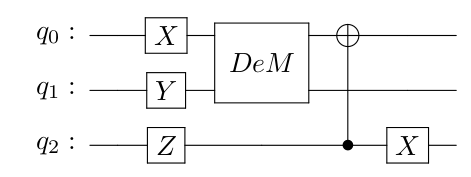
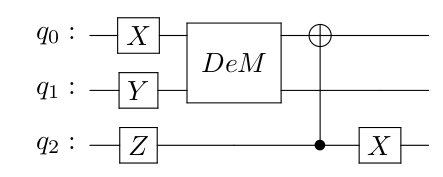
deploy: ea15b0998eacfc84c8b379323e394844159b586c

diff --git a/searchindex.js b/searchindex.js
@@ -1,1 +1,1 @@
-Search.setIndex({docnames:["index","modules","options","qulacsvis","qulacsvis.utils","qulacsvis.utils.gate","qulacsvis.utils.latex","qulacsvis.visualization","qulacsvis.visualization.circuit_drawer","qulacsvis.visualization.circuit_parser","qulacsvis.visualization.latex","qulacsvis.visualization.matplotlib","qulacsvis.visualization.text"],envversion:{"sphinx.domains.c":2,"sphinx.domains.changeset":1,"sphinx.domains.citation":1,"sphinx.domains.cpp":5,"sphinx.domains.index":1,"sphinx.domains.javascript":2,"sphinx.domains.math":2,"sphinx.domains.python":3,"sphinx.domains.rst":2,"sphinx.domains.std":2,"sphinx.ext.intersphinx":1,"sphinx.ext.viewcode":1,sphinx:56},filenames:["index.rst","modules.rst","options.rst","qulacsvis.rst","qulacsvis.utils.rst","qulacsvis.utils.gate.rst","qulacsvis.utils.latex.rst","qulacsvis.visualization.rst","qulacsvis.visualization.circuit_drawer.rst","qulacsvis.visualization.circuit_parser.rst","qulacsvis.visualization.latex.rst","qulacsvis.visualization.matplotlib.rst","qulacsvis.visualization.text.rst"],objects:{"":[[3,0,0,"-","qulacsvis"]],"qulacsvis.utils":[[5,0,0,"-","gate"],[6,0,0,"-","latex"]],"qulacsvis.utils.gate":[[5,1,1,"","grouping_adjacent_gates"],[5,1,1,"","to_latex_style"],[5,1,1,"","to_text_style"]],"qulacsvis.visualization":[[8,0,0,"-","circuit_drawer"],[9,0,0,"-","circuit_parser"],[10,0,0,"-","latex"],[11,0,0,"-","matplotlib"],[12,0,0,"-","text"]],"qulacsvis.visualization.circuit_drawer":[[8,1,1,"","circuit_drawer"]],"qulacsvis.visualization.circuit_parser":[[9,2,1,"","CircuitParser"],[9,2,1,"","GateData"]],"qulacsvis.visualization.circuit_parser.CircuitParser":[[9,3,1,"","append_layer"],[9,4,1,"","gate_info"],[9,4,1,"","layer_width"],[9,4,1,"","qubit_count"]],"qulacsvis.visualization.circuit_parser.GateData":[[9,4,1,"","control_bits"],[9,3,1,"","from_dict"],[9,3,1,"","from_json"],[9,4,1,"","name"],[9,3,1,"","schema"],[9,4,1,"","target_bits"],[9,3,1,"","to_dict"],[9,3,1,"","to_json"]],"qulacsvis.visualization.latex":[[10,2,1,"","LatexSourceGenerator"]],"qulacsvis.visualization.latex.LatexSourceGenerator":[[10,4,1,"","_circuit"],[10,4,1,"","_circuit_data"],[10,4,1,"","_head"],[10,4,1,"","_parser"],[10,4,1,"","_quantum_circuit"],[10,4,1,"","_tail"],[10,3,1,"","generate"]],"qulacsvis.visualization.matplotlib":[[11,2,1,"","MPLCircuitlDrawer"]],"qulacsvis.visualization.matplotlib.MPLCircuitlDrawer":[[11,4,1,"","_ax"],[11,4,1,"","_circuit"],[11,4,1,"","_circuit_data"],[11,4,1,"","_fig_scale_factor"],[11,4,1,"","_figure"],[11,4,1,"","_parser"],[11,3,1,"","draw"]],"qulacsvis.visualization.text":[[12,2,1,"","TextCircuitDrawer"],[12,1,1,"","draw_circuit"]],"qulacsvis.visualization.text.TextCircuitDrawer":[[12,3,1,"","draw"]],qulacsvis:[[4,0,0,"-","utils"],[7,0,0,"-","visualization"]]},objnames:{"0":["py","module","Python module"],"1":["py","function","Python function"],"2":["py","class","Python class"],"3":["py","method","Python method"],"4":["py","attribute","Python attribute"]},objtypes:{"0":"py:module","1":"py:function","2":"py:class","3":"py:method","4":"py:attribute"},terms:{"0":[0,2,8,10,11],"000":2,"001":2,"002":2,"003":2,"004":2,"005":2,"0em":0,"1":[0,5,8,10,11],"150":[2,8],"2":[0,5,8,10,11],"2em":0,"2px":0,"3":[0,5,8,10,11],"5":5,"6":[2,8,11],"7":5,"72":[2,8,11],"8":5,"\u3092\u63cf\u753b\u3059\u308b\u305f\u3081\u306e\u30af\u30e9\u30b9":12,"\u51fa\u529b\u3057\u305f\u3044\u91cf\u5b50\u56de\u8def":12,"\u5236\u5fa1qubit\u3092\u8868\u3059\u30c9\u30c3\u30c8\u306e\u30b9\u30bf\u30a4\u30eb":12,"\u5b9f\u969b\u306b\u56de\u8def\u3092\u63cf\u304d\u59cb\u3081\u51fa\u529b\u307e\u3067\u3059\u308b\u30e1\u30bd\u30c3\u30c9":12,"\u8a73\u7d30\u51fa\u529b":12,"\u91cf\u5b50\u56de\u8def\u56f3\u3092\u30c6\u30ad\u30b9\u30c8\u3067\u51fa\u529b\u3059\u308b\u305f\u3081\u306e\u95a2\u6570":12,"byte":9,"case":2,"class":[9,10,11,12],"default":[0,2,8,9,11,12],"float":[8,9,11],"function":0,"import":[0,8,10,11],"int":[5,8,9,11],"qulacs\u306e\u91cf\u5b50\u56de\u8def":12,"return":[5,8,10,11],"true":[2,8,9,11],"true\u306e\u3068\u304d\u306fgate\u306bcircuit\u306b\u8ffd\u52a0\u3055\u308c\u305f\u9806\u756a\u304c\u51fa\u529b\u3055\u308c\u308b":12,A:[9,10,11],But:2,For:0,If:[0,5,8,11],In:[0,2],Not:0,Or:0,The:[0,5,8,10,11],To:0,_:0,___:[0,2,8],_ax:11,_circuit:[10,11],_circuit_data:[10,11],_fig_scale_factor:11,_figur:11,_head:10,_parser:[10,11],_quantum_circuit:10,_tail:10,ad:8,add_cnot_g:[0,8],add_dense_matrix_g:[0,8],add_x_gat:[0,8,10,11],add_y_g:[0,8,10,11],add_z_gat:[0,8,10,11],adjac:5,adjust:2,after:[10,11],allow_nan:9,also:0,an:8,anoth:0,api:9,append:9,append_lay:9,ar:[2,8,10],argument:0,art:0,ascii:0,avail:[0,2],ax:11,base:[9,10,11,12],begin:0,behavior:0,bit:5,bool:[8,9,11,12],border:0,braket:0,build:0,bytearrai:9,c:0,callabl:9,can:0,charact:2,check_circular:9,circuit:[0,2,8,9,10,11,12],circuit_draw:[0,2,3,7],circuit_pars:[3,7],circuitdata:[9,10,11],circuitpars:[9,10,11],classmethod:9,code:0,commandprompt:2,contain:10,content:1,context:9,control:8,control_bit:9,convert:10,correspond:10,corrupt:2,ctrl:0,cx:[0,2,8],data:[9,10,11],dataclasses_json:9,debug:11,default_valu:9,dem:[0,2,8],describ:0,diagram:8,dict:9,displai:2,documentclass:0,dot:[8,12],dpi:[2,8,11],draw:[8,11,12],draw_circuit:12,drawer:[8,11],drawn:[8,10,11],dump_onli:9,each:[9,10],element:10,encode_json:9,end:0,ensure_ascii:9,environ:0,exampl:[5,8,10,11],exclud:9,explain:2,factor:11,factori:9,fals:[2,8,9,11,12],figur:[8,11],found:5,from:[0,5,8,10,11],from_dict:9,from_json:9,gate:[0,4,8,9],gate_info:9,gate_nam:5,gatedata:[9,10],gener:[2,10],get:5,ghost:0,graphicx:0,group:5,grouping_adjacent_g:5,have:0,head:10,how:0,imag:8,inch:8,indent:9,infer_miss:9,inform:0,input:10,instead:2,its:10,keyerror:5,kv:9,kw:9,larg:[2,8,12],latex:[3,4,5,7,8],latex_sourc:[0,8,10],latexsourcegener:10,layer:9,layer_info:9,layer_width:9,layout:2,librari:0,list:[5,9],live:0,load_onli:9,local:0,lstick:0,mani:9,matplotlib:[3,7,8],matrix:10,mean:[2,8],method:[0,8],miktex:0,mm:9,mode:0,modul:1,more:0,most:2,mpl:[0,2,8],mplcircuitldraw:11,multig:0,name:[5,9],ndarrai:10,need:0,nghost:0,none:[8,9,12],number:[8,9],numpi:10,object:[8,9,10,11,12],one:10,onli:[0,9,10],option:[0,8,9,11],order:8,other:0,output:[0,8],output_method:[0,2,8],packag:[0,1],paramet:[5,8,9,10,11,12],pars:[9,10,11],parse_const:9,parse_float:9,parse_int:9,parser:[10,11],partial:9,pdflatex:0,per:8,pil:8,pip:0,pixel:8,pleas:2,plt:11,posit:10,ppi:[2,8],preambl:10,print:[0,5,10],pypi:0,pyplot:11,python:0,q:0,qcircuit:[0,10],qm:0,quantum:[0,8,9,10,11],quantumcircuit:[0,8,9,10,11,12],qubit:[2,8,9],qubit_count:9,qulac:[0,8,9,10,11,12],qw:0,r:0,rais:[5,8],resolut:11,run:0,s:9,scale:[2,8,11],scalebox:0,schema:9,schemaf:9,section:2,see:0,self:11,separ:9,set:[0,2,8],sharper:2,show:11,skipkei:9,small:2,sometim:2,sort_kei:9,sourc:[5,8,9,10,11,12],specifi:0,standalon:0,stdout:8,str:[5,8,9,10,12],string:[5,8,10],style:8,submodul:[1,3],subpackag:1,support:0,tail:10,targ:0,target:5,target_bit:[5,9],tex:0,text:[3,7,8],textcircuitdraw:12,thei:8,thi:[0,2],to_dict:9,to_json:9,to_latex_styl:5,to_text_styl:5,tupl:9,type:[5,8,9,10,11],union:[8,9],unknown:9,us:[0,11],usepackag:0,valu:[0,9,10],valueerror:8,verbos:[2,8,12],visual:[0,1,3],want:[0,2],where:0,which:8,width:9,x:[0,2,8],y:[0,2,8],you:[0,2],z:[0,2,8]},titles:["Welcome to qulacsvis\u2019s documentation!","qulacsvis","How to use options","qulacsvis package","qulacsvis.utils package","qulacsvis.utils.gate module","qulacsvis.utils.latex module","qulacsvis.visualization package","qulacsvis.visualization.circuit_drawer module","qulacsvis.visualization.circuit_parser module","qulacsvis.visualization.latex module","qulacsvis.visualization.matplotlib module","qulacsvis.visualization.text module"],titleterms:{base:[0,2],chang:2,circuit_draw:8,circuit_pars:9,content:[3,4,7],control:2,document:0,dot:2,draw:[0,2],exampl:0,gate:[2,5],how:2,imag:2,instal:0,latex:[0,2,6,10],matplotlib:[0,2,11],modul:[3,4,5,6,7,8,9,10,11,12],number:2,option:2,packag:[3,4,7],qulacsvi:[0,1,3,4,5,6,7,8,9,10,11,12],requir:0,s:0,size:2,style:2,submodul:[4,7],subpackag:3,text:[0,2,12],us:2,util:[4,5,6],visual:[7,8,9,10,11,12],welcom:0}})
+Search.setIndex({docnames:["index","modules","options","qulacsvis","qulacsvis.utils","qulacsvis.utils.gate","qulacsvis.utils.latex","qulacsvis.visualization","qulacsvis.visualization.circuit_drawer","qulacsvis.visualization.circuit_parser","qulacsvis.visualization.latex","qulacsvis.visualization.matplotlib","qulacsvis.visualization.text"],envversion:{"sphinx.domains.c":2,"sphinx.domains.changeset":1,"sphinx.domains.citation":1,"sphinx.domains.cpp":5,"sphinx.domains.index":1,"sphinx.domains.javascript":2,"sphinx.domains.math":2,"sphinx.domains.python":3,"sphinx.domains.rst":2,"sphinx.domains.std":2,"sphinx.ext.intersphinx":1,"sphinx.ext.viewcode":1,sphinx:56},filenames:["index.rst","modules.rst","options.rst","qulacsvis.rst","qulacsvis.utils.rst","qulacsvis.utils.gate.rst","qulacsvis.utils.latex.rst","qulacsvis.visualization.rst","qulacsvis.visualization.circuit_drawer.rst","qulacsvis.visualization.circuit_parser.rst","qulacsvis.visualization.latex.rst","qulacsvis.visualization.matplotlib.rst","qulacsvis.visualization.text.rst"],objects:{"":[[3,0,0,"-","qulacsvis"]],"qulacsvis.utils":[[5,0,0,"-","gate"],[6,0,0,"-","latex"]],"qulacsvis.utils.gate":[[5,1,1,"","grouping_adjacent_gates"],[5,1,1,"","to_latex_style"],[5,1,1,"","to_text_style"]],"qulacsvis.visualization":[[8,0,0,"-","circuit_drawer"],[9,0,0,"-","circuit_parser"],[10,0,0,"-","latex"],[11,0,0,"-","matplotlib"],[12,0,0,"-","text"]],"qulacsvis.visualization.circuit_drawer":[[8,1,1,"","circuit_drawer"]],"qulacsvis.visualization.circuit_parser":[[9,2,1,"","CircuitParser"],[9,2,1,"","GateData"]],"qulacsvis.visualization.circuit_parser.CircuitParser":[[9,3,1,"","append_layer"],[9,4,1,"","gate_info"],[9,4,1,"","layer_width"],[9,4,1,"","qubit_count"]],"qulacsvis.visualization.circuit_parser.GateData":[[9,4,1,"","control_bits"],[9,3,1,"","from_dict"],[9,3,1,"","from_json"],[9,4,1,"","name"],[9,3,1,"","schema"],[9,4,1,"","target_bits"],[9,3,1,"","to_dict"],[9,3,1,"","to_json"]],"qulacsvis.visualization.latex":[[10,2,1,"","LatexSourceGenerator"]],"qulacsvis.visualization.latex.LatexSourceGenerator":[[10,4,1,"","_circuit"],[10,4,1,"","_circuit_data"],[10,4,1,"","_head"],[10,4,1,"","_parser"],[10,4,1,"","_quantum_circuit"],[10,4,1,"","_tail"],[10,3,1,"","generate"]],"qulacsvis.visualization.matplotlib":[[11,2,1,"","MPLCircuitlDrawer"]],"qulacsvis.visualization.matplotlib.MPLCircuitlDrawer":[[11,4,1,"","_ax"],[11,4,1,"","_circuit"],[11,4,1,"","_circuit_data"],[11,4,1,"","_fig_scale_factor"],[11,4,1,"","_figure"],[11,4,1,"","_parser"],[11,3,1,"","draw"]],"qulacsvis.visualization.text":[[12,2,1,"","TextCircuitDrawer"],[12,1,1,"","draw_circuit"]],"qulacsvis.visualization.text.TextCircuitDrawer":[[12,3,1,"","draw"]],qulacsvis:[[4,0,0,"-","utils"],[7,0,0,"-","visualization"]]},objnames:{"0":["py","module","Python module"],"1":["py","function","Python function"],"2":["py","class","Python class"],"3":["py","method","Python method"],"4":["py","attribute","Python attribute"]},objtypes:{"0":"py:module","1":"py:function","2":"py:class","3":"py:method","4":"py:attribute"},terms:{"0":[0,2,8,10,11],"000":2,"001":2,"002":2,"003":2,"004":2,"005":2,"0em":0,"1":[0,5,8,10,11],"150":[2,8],"2":[0,5,8,10,11],"2pt":0,"3":[0,5,8,10,11],"5":5,"5pt":0,"6":[2,8,11],"7":5,"72":[2,8,11],"7em":0,"7pt":0,"8":5,"\u3092\u63cf\u753b\u3059\u308b\u305f\u3081\u306e\u30af\u30e9\u30b9":12,"\u51fa\u529b\u3057\u305f\u3044\u91cf\u5b50\u56de\u8def":12,"\u5236\u5fa1qubit\u3092\u8868\u3059\u30c9\u30c3\u30c8\u306e\u30b9\u30bf\u30a4\u30eb":12,"\u5b9f\u969b\u306b\u56de\u8def\u3092\u63cf\u304d\u59cb\u3081\u51fa\u529b\u307e\u3067\u3059\u308b\u30e1\u30bd\u30c3\u30c9":12,"\u8a73\u7d30\u51fa\u529b":12,"\u91cf\u5b50\u56de\u8def\u56f3\u3092\u30c6\u30ad\u30b9\u30c8\u3067\u51fa\u529b\u3059\u308b\u305f\u3081\u306e\u95a2\u6570":12,"byte":9,"case":2,"class":[9,10,11,12],"default":[0,2,8,9,11,12],"float":[8,9,11],"function":0,"import":[0,8,10,11],"int":[5,8,9,11],"qulacs\u306e\u91cf\u5b50\u56de\u8def":12,"return":[5,8,10,11],"true":[2,8,9,11],"true\u306e\u3068\u304d\u306fgate\u306bcircuit\u306b\u8ffd\u52a0\u3055\u308c\u305f\u9806\u756a\u304c\u51fa\u529b\u3055\u308c\u308b":12,A:[9,10,11],But:2,For:0,If:[0,5,8,11],In:[0,2],Not:0,Or:0,The:[0,5,8,10,11],To:0,___:[0,2,8],_ax:11,_circuit:[10,11],_circuit_data:[10,11],_fig_scale_factor:11,_figur:11,_head:10,_parser:[10,11],_quantum_circuit:10,_tail:10,ad:8,add_cnot_g:[0,8],add_dense_matrix_g:[0,8],add_x_gat:[0,8,10,11],add_y_g:[0,8,10,11],add_z_gat:[0,8,10,11],adjac:5,adjust:2,after:[10,11],allow_nan:9,also:0,an:8,anoth:0,api:9,append:9,append_lay:9,ar:[2,8,10],argument:0,art:0,ascii:0,avail:[0,2],ax:11,base:[9,10,11,12],begin:0,behavior:0,bit:5,bool:[8,9,11,12],border:0,braket:0,build:0,bytearrai:9,c:0,callabl:9,can:0,charact:2,check_circular:9,circuit:[0,2,8,9,10,11,12],circuit_draw:[0,2,3,7],circuit_pars:[3,7],circuitdata:[9,10,11],circuitpars:[9,10,11],classmethod:9,code:0,commandprompt:2,contain:10,content:1,context:9,control:8,control_bit:9,convert:10,correspond:10,corrupt:2,ctrl:0,cx:[0,2,8],data:[9,10,11],dataclasses_json:9,debug:11,default_valu:9,dem:[0,2,8],describ:0,diagram:8,dict:9,displai:2,documentclass:0,dot:[8,12],dpi:[2,8,11],draw:[8,11,12],draw_circuit:12,drawer:[8,11],drawn:[8,10,11],dump_onli:9,each:[9,10],element:10,encode_json:9,end:0,ensure_ascii:9,environ:0,exampl:[5,8,10,11],exclud:9,explain:2,factor:11,factori:9,fals:[2,8,9,11,12],figur:[8,11],found:5,from:[0,5,8,10,11],from_dict:9,from_json:9,gate:[0,4,8,9],gate_info:9,gate_nam:5,gatedata:[9,10],gener:[2,10],get:5,ghost:0,graphicx:0,group:5,grouping_adjacent_g:5,have:0,head:10,how:0,imag:8,inch:8,indent:9,infer_miss:9,inform:0,input:10,instead:2,its:10,keyerror:5,kv:9,kw:9,larg:[2,8,12],latex:[3,4,5,7,8],latex_sourc:[0,8,10],latexsourcegener:10,layer:9,layer_info:9,layer_width:9,layout:2,librari:0,list:[5,9],live:0,load_onli:9,local:0,lstick:0,mani:9,matplotlib:[3,7,8],matrix:10,mean:[2,8],method:[0,8],miktex:0,mm:9,mode:0,modul:1,more:0,most:2,mpl:[0,2,8],mplcircuitldraw:11,multig:0,name:[5,9],ndarrai:10,need:0,nghost:0,none:[8,9,12],number:[8,9],numpi:10,object:[8,9,10,11,12],one:10,onli:[0,9,10],option:[0,8,9,11],order:8,other:0,output:[0,8],output_method:[0,2,8],packag:[0,1],paramet:[5,8,9,10,11,12],pars:[9,10,11],parse_const:9,parse_float:9,parse_int:9,parser:[10,11],partial:9,pdflatex:0,per:8,pil:8,pip:0,pixel:8,pleas:2,plt:11,posit:10,ppi:[2,8],preambl:10,print:[0,5,10],pypi:0,pyplot:11,python:0,q_:0,qcircuit:[0,10],qm:0,quantum:[0,8,9,10,11],quantumcircuit:[0,8,9,10,11,12],qubit:[2,8,9],qubit_count:9,qulac:[0,8,9,10,11,12],qw:0,r:0,rais:[5,8],resolut:11,run:0,s:9,scale:[2,8,11],schema:9,schemaf:9,section:2,see:0,self:11,separ:9,set:[0,2,8],sharper:2,show:11,skipkei:9,small:2,sometim:2,sort_kei:9,sourc:[5,8,9,10,11,12],specifi:0,standalon:0,stdout:8,str:[5,8,9,10,12],string:[5,8,10],style:8,submodul:[1,3],subpackag:1,support:0,tail:10,targ:0,target:5,target_bit:[5,9],tex:0,text:[3,7,8],textcircuitdraw:12,thei:8,thi:[0,2],to_dict:9,to_json:9,to_latex_styl:5,to_text_styl:5,tupl:9,type:[5,8,9,10,11],union:[8,9],unknown:9,us:[0,11],usepackag:0,valu:[0,9,10],valueerror:8,verbos:[2,8,12],visual:[0,1,3],want:[0,2],where:0,which:8,width:9,x:[0,2,8],y:[0,2,8],you:[0,2],z:[0,2,8]},titles:["Welcome to qulacsvis\u2019s documentation!","qulacsvis","How to use options","qulacsvis package","qulacsvis.utils package","qulacsvis.utils.gate module","qulacsvis.utils.latex module","qulacsvis.visualization package","qulacsvis.visualization.circuit_drawer module","qulacsvis.visualization.circuit_parser module","qulacsvis.visualization.latex module","qulacsvis.visualization.matplotlib module","qulacsvis.visualization.text module"],titleterms:{base:[0,2],chang:2,circuit_draw:8,circuit_pars:9,content:[3,4,7],control:2,document:0,dot:2,draw:[0,2],exampl:0,gate:[2,5],how:2,imag:2,instal:0,latex:[0,2,6,10],matplotlib:[0,2,11],modul:[3,4,5,6,7,8,9,10,11,12],number:2,option:2,packag:[3,4,7],qulacsvi:[0,1,3,4,5,6,7,8,9,10,11,12],requir:0,s:0,size:2,style:2,submodul:[4,7],subpackag:3,text:[0,2,12],us:2,util:[4,5,6],visual:[7,8,9,10,11,12],welcom:0}})

diff --git a/index.html b/index.html
@@ -138,17 +138,16 @@ Or See also <a class="reference internal" href="options.html#how-to-use-options"
 <div class="doctest highlight-default notranslate"><div class="highlight"><pre><span></span><span class="gp">&gt;&gt;&gt; </span><span class="nb">print</span><span class="p">(</span><span class="n">circuit_drawer</span><span class="p">(</span><span class="n">circuit</span><span class="p">,</span> <span class="s2">&quot;latex_source&quot;</span><span class="p">))</span>
 </pre></div>
 </div>
-<div class="highlight-latex notranslate"><div class="highlight"><pre><span></span><span class="k">\documentclass</span><span class="na">[border=2px]</span><span class="nb">{</span>standalone<span class="nb">}</span>
+<div class="highlight-latex notranslate"><div class="highlight"><pre><span></span><span class="k">\documentclass</span><span class="na">[border={-2pt 5pt 5pt -7pt}]</span><span class="nb">{</span>standalone<span class="nb">}</span>
 <span class="k">\usepackage</span><span class="na">[braket, qm]</span><span class="nb">{</span>qcircuit<span class="nb">}</span>
 <span class="k">\usepackage</span><span class="nb">{</span>graphicx<span class="nb">}</span>
 
 <span class="k">\begin</span><span class="nb">{</span>document<span class="nb">}</span>
-    <span class="k">\scalebox</span><span class="nb">{</span>1.0<span class="nb">}{</span>
-    <span class="k">\Qcircuit</span> @C=1.0em @R=0.2em @!R <span class="nb">{</span> <span class="k">\\</span>
-        <span class="k">\nghost</span><span class="nb">{</span> <span class="nb">{</span>q<span class="nb">}_{</span>0<span class="nb">}</span> : <span class="nb">}</span> <span class="nb">&amp;</span> <span class="k">\lstick</span><span class="nb">{</span> <span class="nb">{</span>q<span class="nb">}_{</span>0<span class="nb">}</span> :  <span class="nb">}</span> <span class="nb">&amp;</span> <span class="k">\gate</span><span class="nb">{</span>X<span class="nb">}</span> <span class="nb">&amp;</span> <span class="k">\multigate</span><span class="nb">{</span>1<span class="nb">}{</span>DeM<span class="nb">}</span> <span class="nb">&amp;</span> <span class="k">\targ</span> <span class="nb">&amp;</span> <span class="k">\qw</span> <span class="k">\\</span>
-        <span class="k">\nghost</span><span class="nb">{</span> <span class="nb">{</span>q<span class="nb">}_{</span>1<span class="nb">}</span> : <span class="nb">}</span> <span class="nb">&amp;</span> <span class="k">\lstick</span><span class="nb">{</span> <span class="nb">{</span>q<span class="nb">}_{</span>1<span class="nb">}</span> :  <span class="nb">}</span> <span class="nb">&amp;</span> <span class="k">\gate</span><span class="nb">{</span>Y<span class="nb">}</span> <span class="nb">&amp;</span> <span class="k">\ghost</span><span class="nb">{</span>DeM<span class="nb">}</span> <span class="nb">&amp;</span> <span class="k">\qw</span> <span class="nb">&amp;</span> <span class="k">\qw</span> <span class="k">\\</span>
-        <span class="k">\nghost</span><span class="nb">{</span> <span class="nb">{</span>q<span class="nb">}_{</span>2<span class="nb">}</span> : <span class="nb">}</span> <span class="nb">&amp;</span> <span class="k">\lstick</span><span class="nb">{</span> <span class="nb">{</span>q<span class="nb">}_{</span>2<span class="nb">}</span> :  <span class="nb">}</span> <span class="nb">&amp;</span> <span class="k">\gate</span><span class="nb">{</span>Z<span class="nb">}</span> <span class="nb">&amp;</span> <span class="k">\qw</span> <span class="nb">&amp;</span> <span class="k">\ctrl</span><span class="nb">{</span>-2<span class="nb">}</span> <span class="nb">&amp;</span> <span class="k">\gate</span><span class="nb">{</span>X<span class="nb">}</span> <span class="k">\\</span>
-    <span class="nb">}}</span>
+    <span class="k">\Qcircuit</span> @C=1.0em @R=0.7em @!R<span class="nb">{</span> <span class="k">\\</span>
+        <span class="k">\nghost</span><span class="nb">{</span> q<span class="nb">_{</span>0<span class="nb">}</span> : <span class="nb">}</span> <span class="nb">&amp;</span> <span class="k">\lstick</span><span class="nb">{</span> q<span class="nb">_{</span>0<span class="nb">}</span> : <span class="nb">}</span> <span class="nb">&amp;</span> <span class="k">\gate</span><span class="nb">{</span>X<span class="nb">}</span> <span class="nb">&amp;</span> <span class="k">\multigate</span><span class="nb">{</span>1<span class="nb">}{</span>DeM<span class="nb">}</span> <span class="nb">&amp;</span> <span class="k">\targ</span> <span class="nb">&amp;</span> <span class="k">\qw</span> <span class="nb">&amp;</span> <span class="k">\qw\\</span>
+        <span class="k">\nghost</span><span class="nb">{</span> q<span class="nb">_{</span>1<span class="nb">}</span> : <span class="nb">}</span> <span class="nb">&amp;</span> <span class="k">\lstick</span><span class="nb">{</span> q<span class="nb">_{</span>1<span class="nb">}</span> : <span class="nb">}</span> <span class="nb">&amp;</span> <span class="k">\gate</span><span class="nb">{</span>Y<span class="nb">}</span> <span class="nb">&amp;</span> <span class="k">\ghost</span><span class="nb">{</span>DeM<span class="nb">}</span> <span class="nb">&amp;</span> <span class="k">\qw</span> <span class="nb">&amp;</span> <span class="k">\qw</span> <span class="nb">&amp;</span> <span class="k">\qw\\</span>
+        <span class="k">\nghost</span><span class="nb">{</span> q<span class="nb">_{</span>2<span class="nb">}</span> : <span class="nb">}</span> <span class="nb">&amp;</span> <span class="k">\lstick</span><span class="nb">{</span> q<span class="nb">_{</span>2<span class="nb">}</span> : <span class="nb">}</span> <span class="nb">&amp;</span> <span class="k">\gate</span><span class="nb">{</span>Z<span class="nb">}</span> <span class="nb">&amp;</span> <span class="k">\qw</span> <span class="nb">&amp;</span> <span class="k">\ctrl</span><span class="nb">{</span>-2<span class="nb">}</span> <span class="nb">&amp;</span> <span class="k">\gate</span><span class="nb">{</span>X<span class="nb">}</span> <span class="nb">&amp;</span> <span class="k">\qw\\</span>
+    <span class="nb">}</span>
 <span class="k">\end</span><span class="nb">{</span>document<span class="nb">}</span>
 </pre></div>
 </div>
